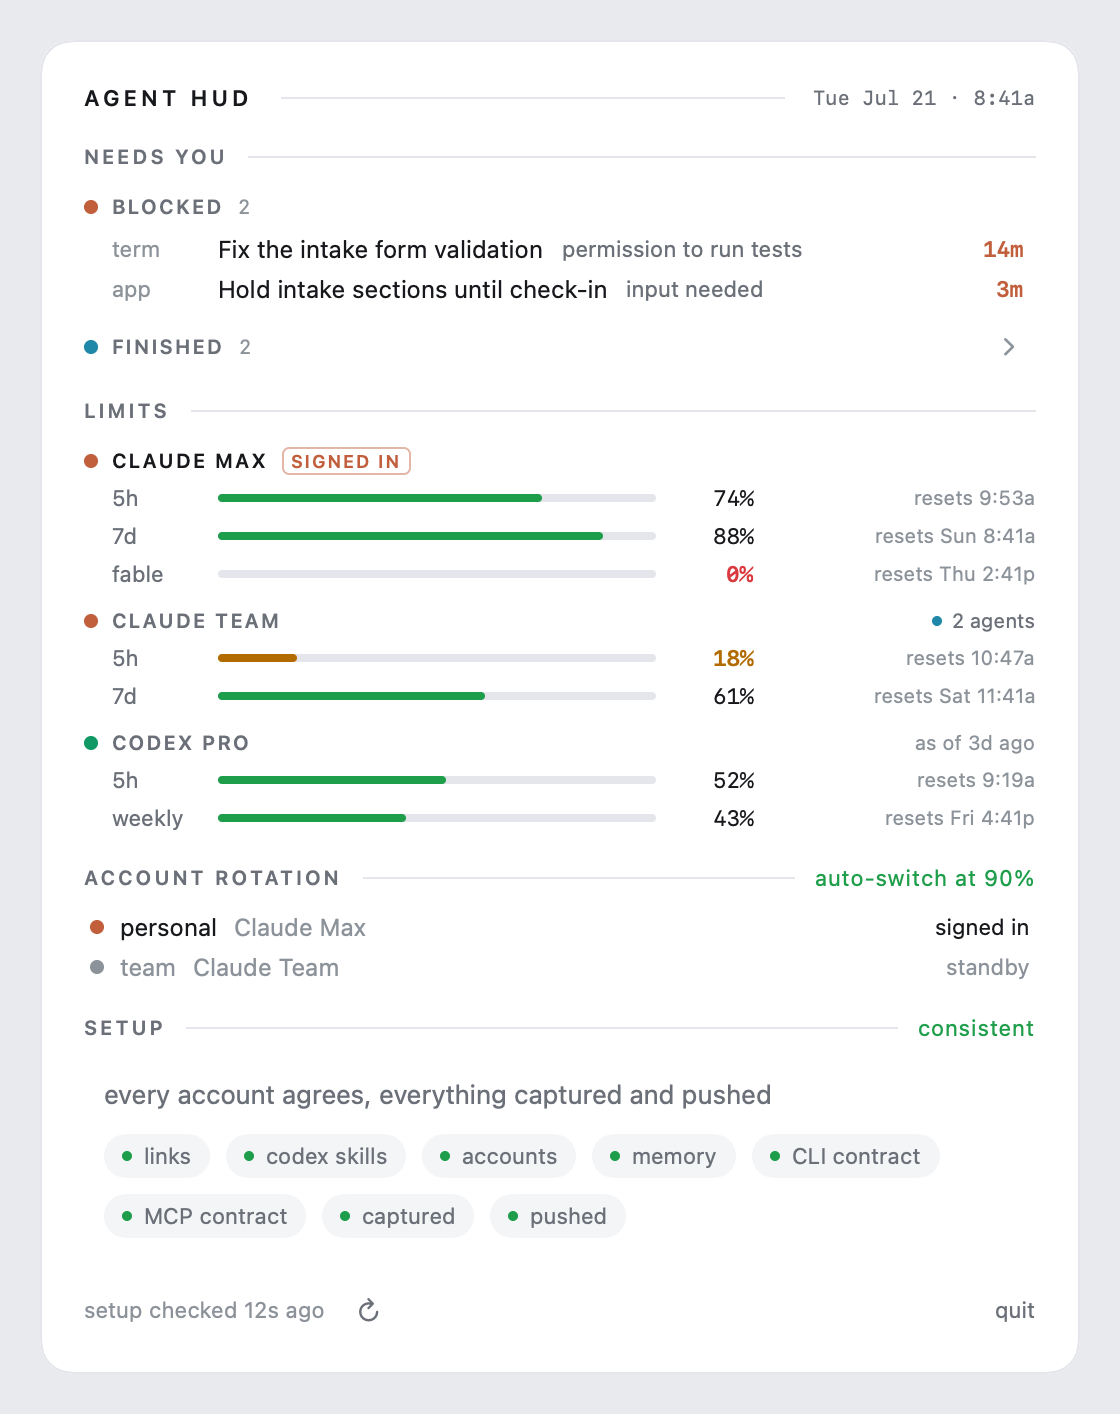
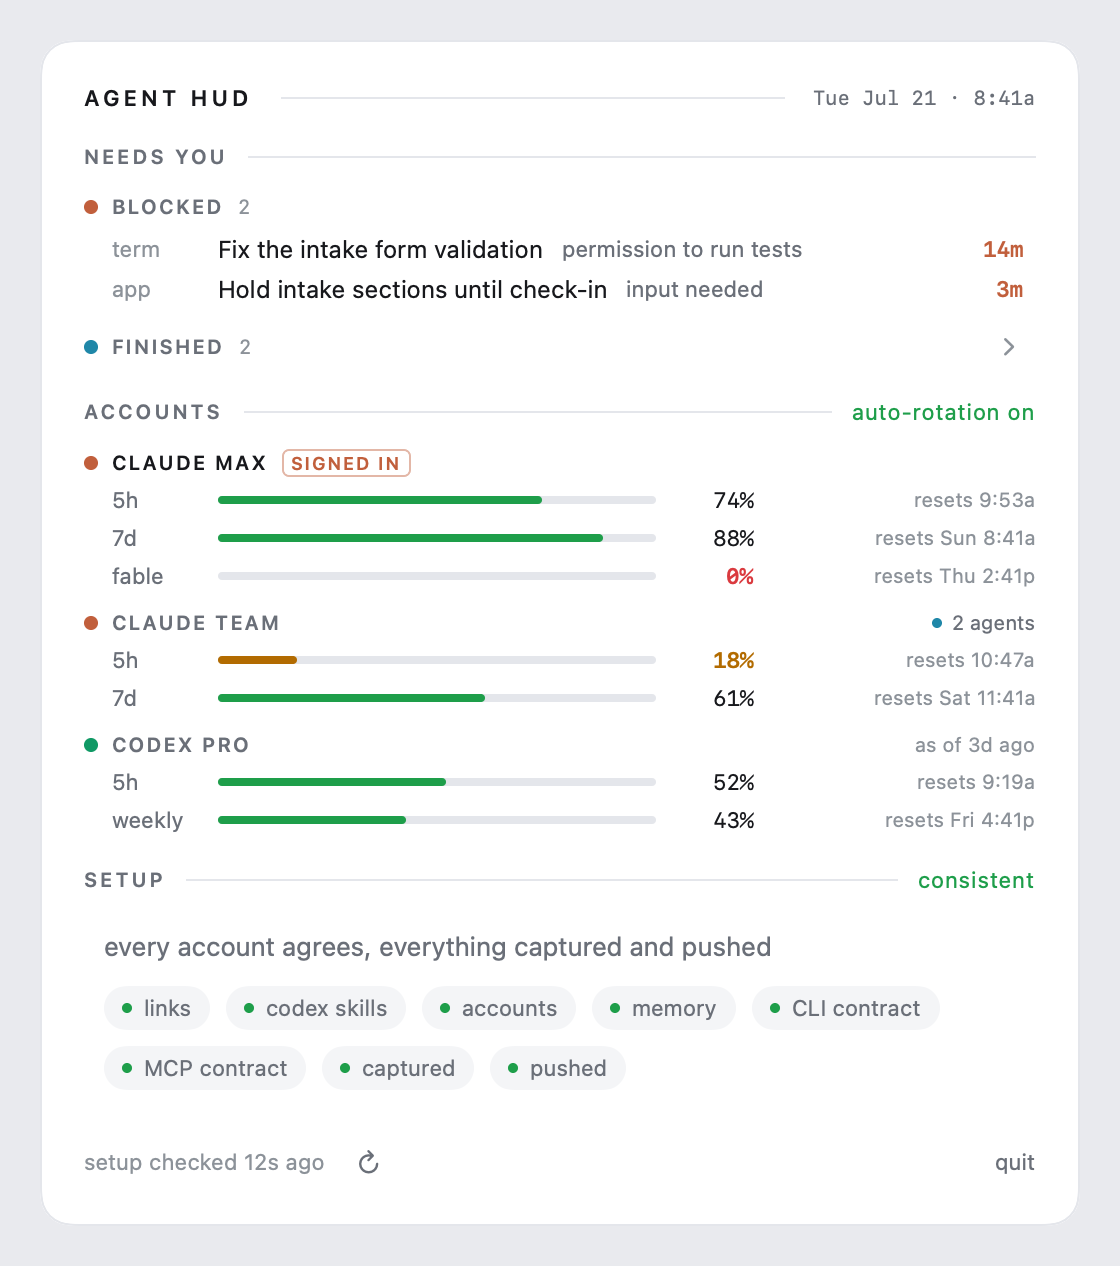
Merge limits and rotation into one Accounts section
- Rename LIMITS to ACCOUNTS, with the auto-rotation state on its rule.
- Remove the account rotation rows. The SIGNED IN badge already marks
  the live account.
- Remove the "no session limit" line under Codex.

Claude-Session: https://claude.ai/code/session_01Jo5D9EAHiiuvA79z4sD3SW

diff --git a/hud/Sources/HUDCore/PopoverCard.swift b/hud/Sources/HUDCore/PopoverCard.swift
@@ -43,10 +43,7 @@ public struct PopoverCard: View {
                 if !needsYou.isEmpty {
                     NeedsYouSection(needsYou: needsYou, now: now, onSelect: onSelectAgent)
                 }
-                LimitsSection(subs: orderedSubs, now: now)
-                if let swap = snap.swap {
-                    SwapSection(swap: swap, subs: orderedSubs)
-                }
+                LimitsSection(subs: orderedSubs, now: now, swap: snap.swap)
                 SetupSection(setup: snap.setup)
                 FooterView(setup: snap.setup, generatedAt: snap.generatedAt,
                            now: now, onRefresh: onRefresh)
@@ -146,16 +143,51 @@ struct LimitsSection: View {
         subs.filter { $0.provider == "claude" }.count > 1
     }
     let now: Date
+    /// cswap's state, when cswap manages this machine. Only the auto-rotation
+    /// verdict shows: the SIGNED IN badge already says which account is live.
+    var swap: SwapBlock? = nil
 
     var body: some View {
         VStack(alignment: .leading, spacing: 12) {
-            SectionRule(title: "LIMITS")
+            SectionRule(title: "ACCOUNTS") {
+                if let swap { AutoRotationStatus(auto: swap.auto) }
+            }
             VStack(alignment: .leading, spacing: 10) {
                 ForEach(subs) { sub in
                     PlanLimits(sub: sub, now: now, marksActive: marksActive)
                 }
             }
         }
+    }
+}
+
+/// The auto-rotator's state on the ACCOUNTS rule. `nil` reads as unknown,
+/// never as off: a rotator nobody could ask about might switch accounts now.
+struct AutoRotationStatus: View {
+    let auto: SwapAuto?
+
+    var text: String {
+        switch auto?.running {
+        case true?: "auto-rotation on"
+        case false?: "auto-rotation off"
+        case nil: "auto-rotation unknown"
+        }
+    }
+
+    private var color: Color {
+        switch auto?.running {
+        case true?: Theme.green
+        case false?: Theme.amber
+        case nil: Theme.muted
+        }
+    }
+
+    var body: some View {
+        Text(text)
+            .font(Theme.label(11))
+            .tracking(0.4)
+            .foregroundStyle(color)
+            .fixedSize()
     }
 }
 
@@ -208,14 +240,6 @@ struct PlanLimits: View {
             } else {
                 ForEach(Array(sub.windows.enumerated()), id: \.offset) { _, window in
                     LimitRow(window: window, now: now)
-                }
-                if sub.sessionWindow == nil {
-                    // Codex reports only a weekly limit. Saying so beats leaving
-                    // a reader to wonder where the 5h row went.
-                    Text("no session limit")
-                        .font(Theme.label(10))
-                        .foregroundStyle(Theme.faint)
-                        .padding(.leading, 14)
                 }
             }
         }

diff --git a/hud/Tests/HUDCoreTests/LimitsSectionTests.swift b/hud/Tests/HUDCoreTests/LimitsSectionTests.swift
@@ -57,7 +57,7 @@ final class LimitsSectionTests: XCTestCase {
     func testAPlanWithOneLimitDrawsOneRow() {
         let s = sub("codex", provider: "codex", windows: [window("weekly", 81)])
         XCTAssertEqual(s.windows.count, 1)
-        XCTAssertNil(s.sessionWindow)  // which is what puts "no session limit" under it
+        XCTAssertNil(s.sessionWindow)
     }
 
     func testWindowNamesAreTheOnesAReaderSees() {
@@ -114,5 +114,16 @@ final class LimitsSectionTests: XCTestCase {
         try PreviewRenderer.renderCardPNG(snapshot: snap, now: now, to: url)
         let size = try FileManager.default.attributesOfItem(atPath: url.path)[.size] as? Int ?? 0
         XCTAssertGreaterThan(size, 1000)
+    }
+}
+
+/// The ACCOUNTS rule carries the auto-rotator's state, and says unknown rather
+/// than off when nobody could ask.
+final class AutoRotationStatusTests: XCTestCase {
+
+    func testTheRotatorStateReadsOnOffOrUnknown() {
+        XCTAssertEqual(AutoRotationStatus(auto: SwapAuto(running: true, threshold: 90)).text, "auto-rotation on")
+        XCTAssertEqual(AutoRotationStatus(auto: SwapAuto(running: false, threshold: nil)).text, "auto-rotation off")
+        XCTAssertEqual(AutoRotationStatus(auto: nil).text, "auto-rotation unknown")
     }
 }

diff --git a/docs/hud-schema.md b/docs/hud-schema.md
@@ -71,7 +71,7 @@ Run it with `agenthud serve` (or `agenthud --serve`), optionally with `--host` a
 | `value` | object or null | Dollar value delivered vs. subscription cost. `null` when the pricing collector is unavailable. |
 | `soonest_reset` | object or null | The single earliest-resetting window across all subscriptions, or `null` when no window reports a reset time. |
 | `setup` | object or null | Whether the shared agent setup in `~/.agents` is healthy, verbatim from `check-setup.sh --json`. `null` means the question could not be asked — **never that the setup is fine**. |
-| `swap` | object or null | claude-swap's account rotation state: the managed slots, which one holds the default profile's credential, and whether the auto-rotator is alive. `null` means cswap is absent or could not answer — the card omits the section, **never renders it as "rotation off"**. |
+| `swap` | object or null | claude-swap's account rotation state: the managed slots, which one holds the default profile's credential, and whether the auto-rotator is alive. `null` means cswap is absent or could not answer — the card omits the auto-rotation state from the ACCOUNTS rule, **never renders it as "rotation off"**. |
 
 ## `subscriptions[]`
 

diff --git a/README.md b/README.md
@@ -94,7 +94,8 @@ python3 -m pytest tests         # the daemon: collectors, usage, pricing, snapsh
 ## The card
 
 Each section is a plain list: **NEEDS YOU** (only when something does),
-**LIMITS**, **ACCOUNT ROTATION** (when cswap manages the machine), **SETUP**.
+**ACCOUNTS** (with the auto-rotation state on the right when cswap manages
+the machine), **SETUP**.
 
 A limits row is one window on one plan — what it is, a fuel bar for how much is
 left, the number, and when it comes back. It used to be three pods each
